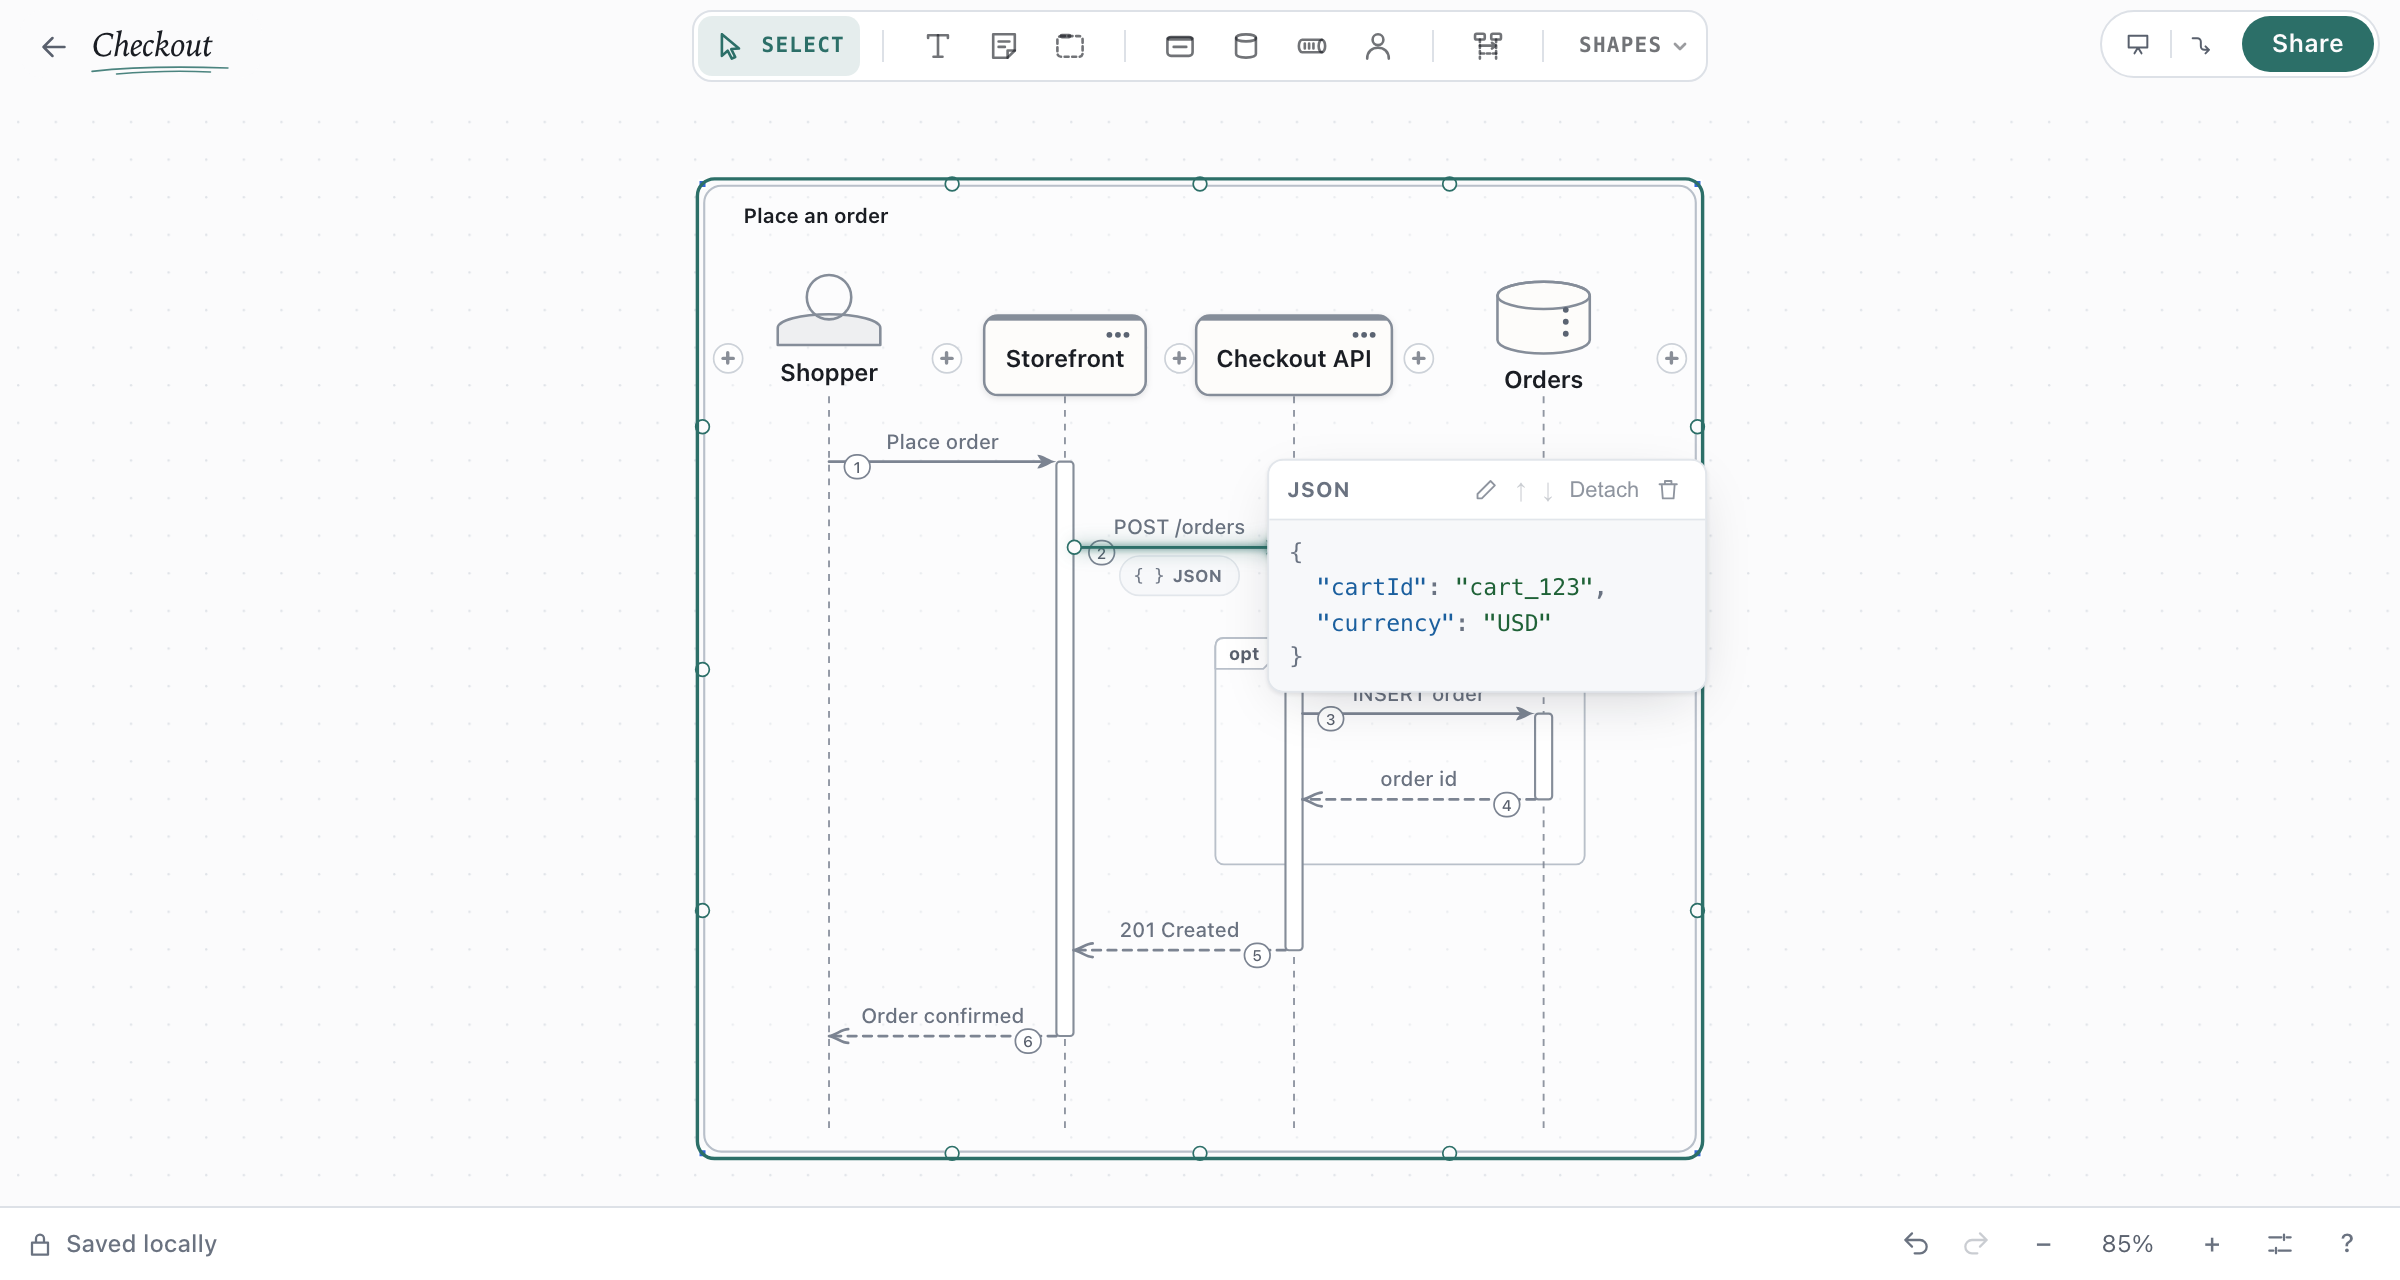
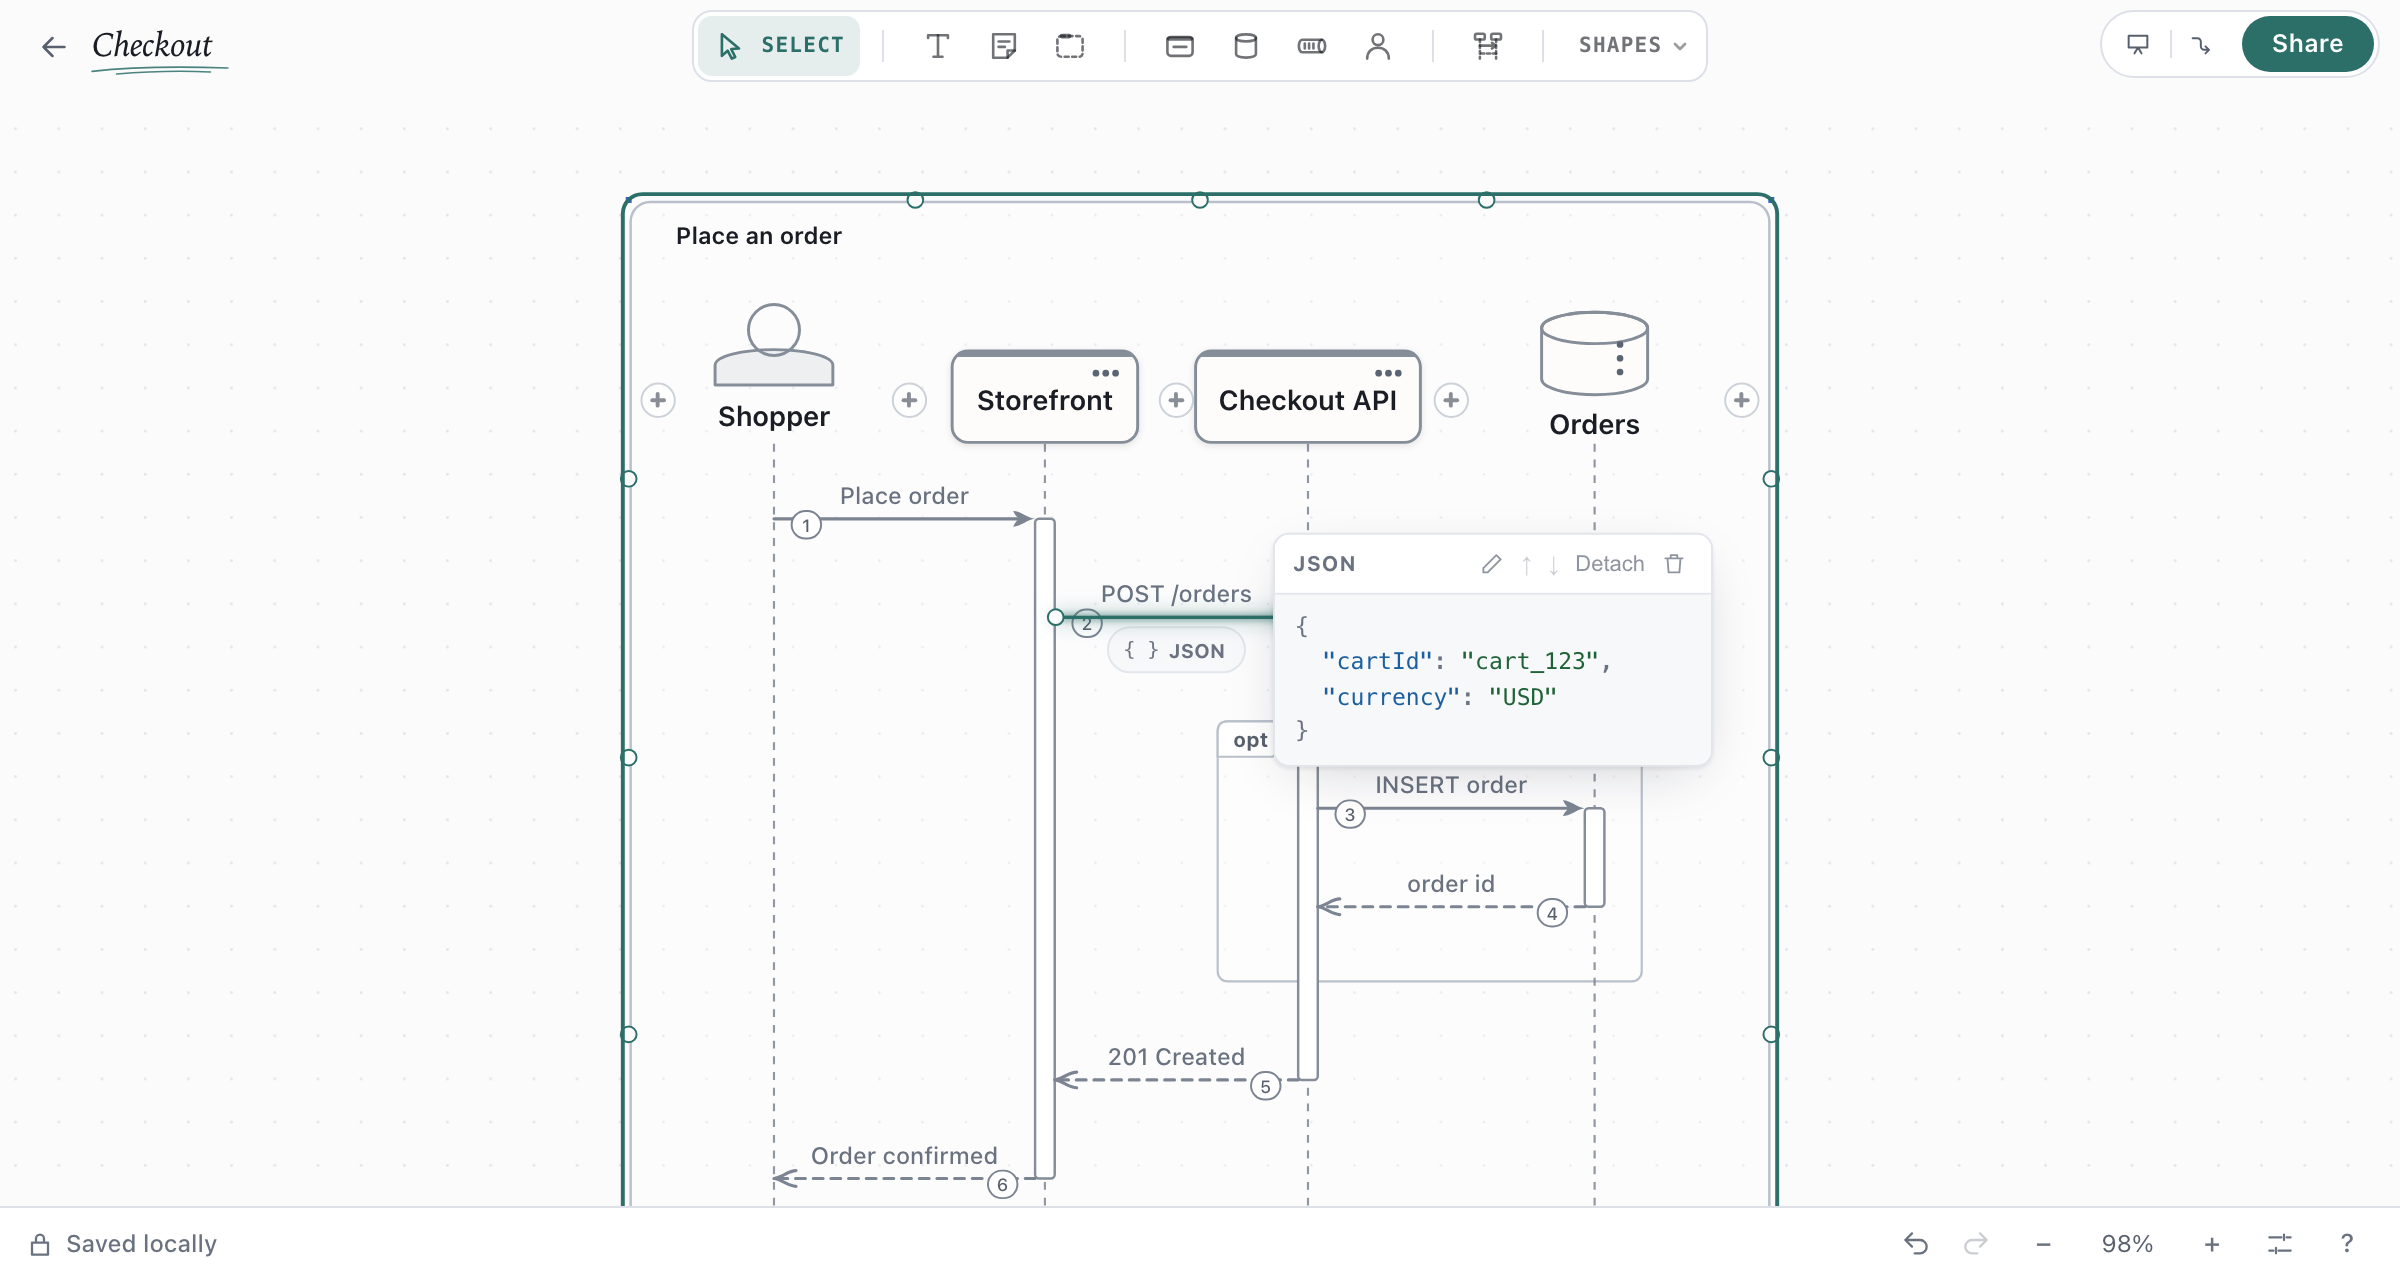
Keep message attachment chips reachable when a card opens

Changed region(s): [[0.25, 0.125, 0.75, 0.9375], [0.6562, 0.375, 0.6875, 0.4062]]

diff --git a/src/canvas/AttachmentPopover.tsx b/src/canvas/AttachmentPopover.tsx
@@ -139,13 +139,20 @@ function AttachmentPopoverBody({ detail, closing, listening, editable }: { detai
   const directAttachmentId = messageId && attachments.some((attachment) => attachment.id === detail.attachmentId)
     ? detail.attachmentId ?? undefined : undefined;
   let rect = shown ? rectOfInternal(shown.internal) : null;
+  let chipRow = null;
   if (rect && messageId && displayHost) {
     const context = describeContext(LIGHT);
     const layout = sequenceLayoutFor(displayHost, context);
     const drawn = layout.messages.find((message) => message.id === messageId);
     if (drawn) {
       const index = Math.max(0, attachments.findIndex((attachment) => attachment.id === detail.attachmentId));
-      const chip = sequenceAttachmentChips(drawn, attachments, layout.width, context.measurer)[index];
+      const chips = sequenceAttachmentChips(drawn, attachments, layout.width, context.measurer);
+      const chip = chips[index];
+      const first = chips[0];
+      const last = chips.at(-1);
+      if (directAttachmentId && first && last) {
+        chipRow = { x: rect.x + first.x, y: rect.y + first.y, width: last.x + last.w - first.x, height: first.h };
+      }
       if (chip) rect = { x: rect.x + chip.x, y: rect.y + chip.y, width: chip.w, height: chip.h };
     }
   }
@@ -172,7 +179,7 @@ function AttachmentPopoverBody({ detail, closing, listening, editable }: { detai
     const clearances = { ...baseClearances, right: rightClearance(flowPanelOpen, LEFT_CLEARANCE, frame.root.right) };
     const next = interactionActive
       ? current
-      : resolvePlacement(current, anchors, frame.flowToScreenPosition, frame.size, clearances);
+      : resolvePlacement(current, anchors, frame.flowToScreenPosition, frame.size, clearances, chipRow ? [chipRow] : []);
     return {
       placement: next,
       transform: placementTransform(next, anchors, frame.size, clearances, frame.flowToScreenPosition, frame.screenToOverlay),
